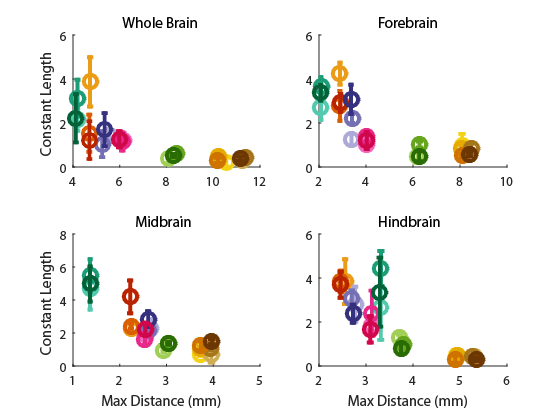
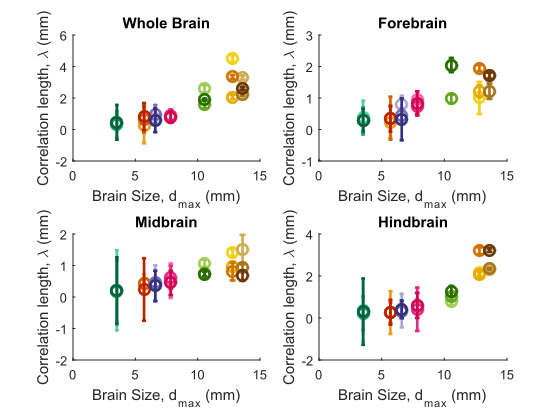
Changes to figures 3,4,5 according to comments

diff --git a/Analysis/makeConstantPlot.m b/Analysis/makeConstantPlot.m
@@ -1,26 +1,44 @@
-function [constantOut]=makeConstantPlot(numData,numThresholds,thisBrainDiv,...
-                                        scaledDistance,thisCellType,thisDirection,...
-                                        makeNewFigure,whatConstantOut,allGrey,linearRegress)
+function makeConstantPlot(numData,numThresholds,thisBrainDiv,...
+                          scaledDistance,thisCellType,thisDirection,...
+                          makeNewFigure,whatConstantOut,allGrey,...
+                          linearRegress,showCorrCoeff,forceYLim,displayAdjR)
+% plot decay constant against max distance
 % numData=1000;
 % numThresholds=20;
-% useGoodGeneSubset=true;
 % thisBrainDiv='wholeBrain';
 % scaledDistance=false;
-% plot decay constant against max distance
+% thisCellType='allCellTypes';
+% thisDirection='allDirections';
+% makeNewFigure = true;
+% whatConstantOut = 'decayConstant';
+% allGrey = false;
+% linearRegress = true;
+% showCorrCoeff = false;
+% forceYLim = false;
+
 timePoints = GiveMeParameter('timePoints');
+resolutionGrid = GiveMeParameter('resolutionGrid');
+constantTypes = GiveMeParameter('constantTypes');
+maxDistance = zeros(length(timePoints),1);
 [xPlotDataAll,yPlotDataAll,numThresholds] = makeBinnedData(numData,...
                                                             numThresholds,...
                                                             thisBrainDiv,...
                                                             scaledDistance,...
                                                             thisCellType,...
                                                             thisDirection);
+% get max distance
+for i=1:length(timePoints)
+  filename=sprintf('voxelGeneCoexpression_%s.mat',timePoints{i});
+  load(filename,'voxGeneMat','coOrds');
+  maxDistance(i) = (max(coOrds(:,1))-min(coOrds(:,1)))*resolutionGrid.(timePoints{i});
+end
+
 if scaledDistance
   [fitting_stat_all,constantOut,~] = makeBinnedFitting(xPlotDataAll,...
                                                         yPlotDataAll,...
                                                         numThresholds,...
                                                         whatConstantOut);
   % get the original (unscaled) max distance for plotting
-  maxDistance = zeros(length(timePoints),1);
   [xPlotDataAll,yPlotDataAll,numThresholds] = makeBinnedData(numData,...
                                                               numThresholds,...
                                                               thisBrainDiv,...
@@ -32,14 +50,9 @@ if scaledDistance
   %                                       yPlotDataAll,...
   %                                       numThresholds,...
   %                                       whatConstantOut);
-  for i=1:length(timePoints)
-    filename=sprintf('voxelGeneCoexpression%s%s_%s.mat',...
-                    thisBrainDiv,thisCellType,timePoints{i});
-    load(filename,'voxGeneMat','coOrds');
-    maxDistance(i) = max(xPlotDataAll{i});
-  end
+
 else
-  [fitting_stat_all,constantOut,maxDistance] = makeBinnedFitting(xPlotDataAll,...
+  [fitting_stat_all,constantOut,~] = makeBinnedFitting(xPlotDataAll,...
                                                                 yPlotDataAll,...
                                                                 numThresholds,...
                                                                 whatConstantOut);
@@ -47,5 +60,6 @@ end
 
 plotConstant(fitting_stat_all,constantOut,whatConstantOut,maxDistance,...
             thisBrainDiv,numData,numThresholds,makeNewFigure,...
-            thisDirection,thisCellType,allGrey,linearRegress);
+            thisDirection,thisCellType,allGrey,linearRegress,...
+            showCorrCoeff,forceYLim,displayAdjR);
 end

diff --git a/Analysis/plotConstant.m b/Analysis/plotConstant.m
@@ -1,7 +1,8 @@
 function plotConstant(fitting_stat_all,constantOut,whatConstantOut,maxDistance,...
                       brainDiv,numData,numThresholds,...
                       makeNewFigure,thisDirection,...
-                      thisCellType,allGrey,linearRegress)
+                      thisCellType,allGrey,linearRegress,...
+                      showCorrCoeff,forceYLim,displayAdjR)
 % this function plots decay constants with error bars against max distance
 
 % dataType='voxel';
@@ -172,20 +173,10 @@ function plotConstant(fitting_stat_all,constantOut,whatConstantOut,maxDistance,.
         disp(sprintf('%s : %d', whatConstantOut,constantOut(i))) % display decay constant in command window
 
       end
-      % t1.FontSize=12;
-      % if (strcmp(thisDirection,'allDirections') & strcmp(thisCellType,'allCellTypes'))
-      %   yPosition=linspace(1,0.4,length(timePoints));
-      %   t=text(0.5,0.5,char(timePoints{i}),'color','k','FontSize',12,'BackgroundColor',...
-      %           theColor);
-      %   t.Units='normalized';
-      %   t.Position=[1 yPosition(i)];
-      % else
-      %   yPosition=linspace(0.95,0.65,length(timePoints));
-      %   t=text(0.5,0.5,[timePoints{i} ' ' showThis],'color','k',...
-      %         'FontSize',12,'BackgroundColor',thisBackground);
-      %   t.Units='normalized';
-      %   t.Position=[thisXPosition yPosition(i)];
-      % end
+      % display adjusted R square
+      if displayAdjR
+        disp(sprintf('Ajusted R square : %d', fitting_stat_all.(timePoints{i}).adjRSquare.exp))
+      end
       hold on
   end
   if linearRegress % plot linear regression line
@@ -197,9 +188,18 @@ function plotConstant(fitting_stat_all,constantOut,whatConstantOut,maxDistance,.
   % compute correlation coefficient
   corrCoeff = extractDistances(corrcoef(maxDistance,constantOut));
   disp(sprintf('correlation coefficient : %d', corrCoeff))
+  if showCorrCoeff
+    t = text(0.5,0.5,strcat('corrCoeff: ',num2str(corrCoeff)));
+    t.Units='normalized';
+    t.Position=[0.1 1];
+    t.FontWeight='bold';
+  end
   % label the axes
-  xLabel = GiveMeLabelName('maxDistance');
+  xLabel = GiveMeLabelName('brainSize');
   yLabel = GiveMeLabelName(whatConstantOut);
   xlabel(xLabel)
   ylabel(yLabel)
+  if forceYLim
+    ylim([-1 4])
+  end
 end

diff --git a/FigGen/makeFigure4_1.m b/FigGen/makeFigure4_1.m
@@ -21,10 +21,13 @@ for k=1:length(brainDivisions)
 
   for j=1:length(constantTypes)
     subplot(1,3,j)
-    constantOut.(constantTypes{j}).(brainDivisions{k}) = makeConstantPlot(numData,numThresholds,...
-                                                                          brainDivisions{k},...
-                                                                          false,thisCellType,thisDirection,false,...
-                                                                          constantTypes{j},false,false);
+    makeConstantPlot(numData,numThresholds,...
+                      brainDivisions{k},...
+                      false,thisCellType,...
+                      thisDirection,false,...
+                      constantTypes{j},...
+                      false,false,...
+                      false,false,false);
     hold on
   end
   str = GiveMeLabelName(brainDivisions{k});
@@ -32,22 +35,4 @@ for k=1:length(brainDivisions)
   str = fullfile('Outs','figure4',sprintf('figure4_%d.svg',k));
   saveas(f,str)
 end
-
-
-
-  T = struct2table(constantOut)
-  % % create a table to hold the data
-  % T = cell2table(cell(0,3));
-  % T.Properties.VariableNames = constantTypes;
-  % % T.Properties.RowNames = brainDivisions;
-  % for j=1:length(constantTypes)
-  %   for k=1:length(brainDivisions)
-  %     T.(constantTypes{1}) = constantOut.(constantTypes{j}).(brainDivisions{k})(i);
-  %     T.(constantTypes{2}) = constantOut.(constantTypes{j}).(brainDivisions{k})(i);
-  %     T.(constantTypes{3}) = constantOut.(constantTypes{j}).(brainDivisions{k})(i);
-  %   end
-  % end
-  % T(1:4,:) % display the table
-
-
 end

diff --git a/Peripheral/GiveMeLabelName.m b/Peripheral/GiveMeLabelName.m
@@ -16,17 +16,17 @@ case 'CGE'
 case 'length'
     theParameter = 'Length scale';
 case 'decayConstant'
-    theParameter = '1/Eta (mm^{-1})';
-case 'freeParameter'
+    theParameter = 'Correlation length, {\lambda} (mm)';
+case 'offset'
     theParameter = 'Offset (mm)';
-case 'multiplier'
-    theParameter = 'Amplitude (mm)';
+case 'strength'
+    theParameter = 'Strength (mm)';
 case 'logLength'
     theParameter = 'log (Length scale)';
 case 'logDecayConstant'
     theParameter = 'log (Decay constant)';
-case 'maxDistance'
-    theParameter = 'Max Distance (mm)';
+case 'brainSize'
+    theParameter = 'Brain Size, d_m_a_x (mm)';
 case 'genes'
     theParameter = 'Genes';
 case 'voxels'

diff --git a/FigGen/makeFigure4.m b/FigGen/makeFigure4.m
@@ -13,11 +13,11 @@ for j=1:length(smallBrainDivisions)
   subplot(2,2,j)
   makeConstantPlot(numData,numThresholds,'wholeBrain',...
                   false,'allCellTypes','allDirections',...
-                  false,'decayConstant',true,false);
+                  false,'decayConstant',true,false,false,true,false);
   hold on
   makeConstantPlot(numData,numThresholds,smallBrainDivisions{j},...
                   false,'allCellTypes','allDirections',...
-                  false,'decayConstant',false,false);
+                  false,'decayConstant',false,false,false,true,true);
   str = GiveMeLabelName(smallBrainDivisions{j});
   title(str);
   hold on

diff --git a/Analysis/getFitting.m b/Analysis/getFitting.m
@@ -17,9 +17,9 @@ function [fitting_stat_all, constantOut, maxDistance]=getFitting(xData,yData,wha
       switch whatConstantOut
       case 'decayConstant'
         constantOut(i)=fitting_stat_all.(timePoints{i}).fitObject.exp.n;
-      case 'freeParameter'
+      case 'offset'
         constantOut(i)=fitting_stat_all.(timePoints{i}).fitObject.exp.B;
-      case 'multiplier'
+      case 'strength'
         constantOut(i)=fitting_stat_all.(timePoints{i}).fitObject.exp.A;
       end
       % collect max distance

diff --git a/FigGen/makeFigure5.m b/FigGen/makeFigure5.m
@@ -15,7 +15,7 @@ function makeFigure5(numData,numThresholds)
     for k=1:length(cellTypes)
       makeConstantPlot(numData,numThresholds,brainDivisions{j},...
                       false,cellTypes{k},'allDirections',...
-                      false,'decayConstant',false,false);
+                      false,'decayConstant',false,false,false,false,true);
       hold on
     end
     str = GiveMeLabelName(brainDivisions{j});

diff --git a/FigGen/makeFigure3.m b/FigGen/makeFigure3.m
@@ -19,7 +19,7 @@ for j=1:length(constantTypes)
   subplot(2,2,j)
   makeConstantPlot(numData,numThresholds,thisBrainDiv,...
                   false,thisCellType,thisDirection,false,...
-                  constantTypes{j},false,true);
+                  constantTypes{j},false,false,false,false,false);
   hold on
 end
 % f.Position = [0.1300    0.1100    0.3347    0.3412];

diff --git a/Peripheral/GiveMeParameter.m b/Peripheral/GiveMeParameter.m
@@ -30,7 +30,7 @@ case 'cellTypes'
 case 'smallCellTypes'
     theParameter = {'oligodendrocyte','neuron','astrocyte'};
 case 'constantTypes'
-    theParameter = {'decayConstant','multiplier','freeParameter'};
+    theParameter = {'decayConstant','strength','offset'};
 case 'matTypes'
     theParameter = {'voxGeneMat','distMat','cgeMat'};
 case 'directions'
